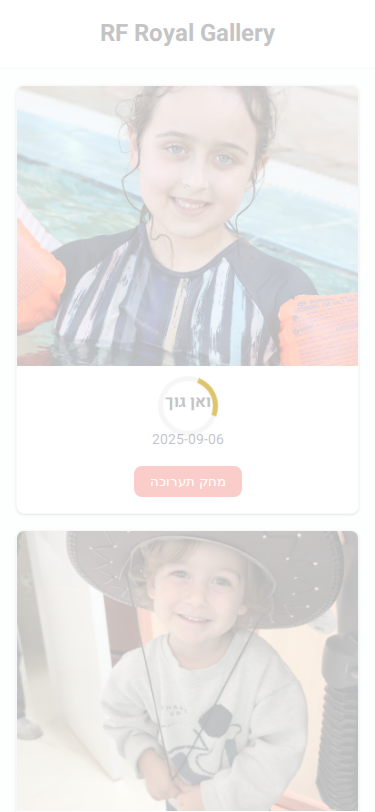
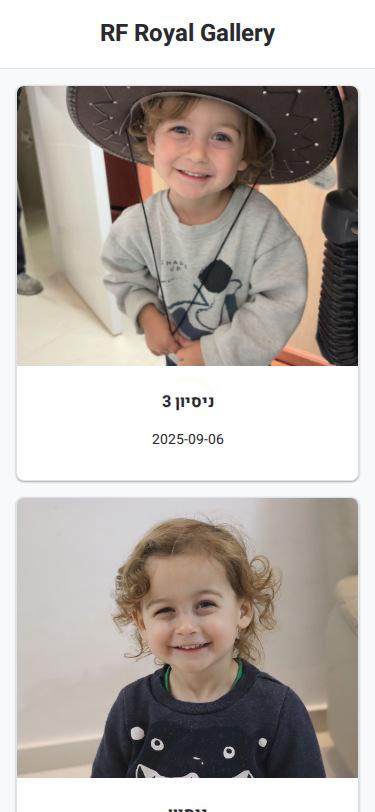
fix: Final bug fixes and UX improvements
This commit introduces the final set of bug fixes and user experience enhancements to complete the project.

Key changes:
- Fixed a layout bug in the edit modal where the file input would intercept all clicks.
- Moved the "Delete Exhibit" button from the main gallery view into the header of the exhibit page for better UX.
- Made the "click outside to close" functionality for all modals more robust.
- Improved the styling of modals on mobile devices to ensure they have a margin and do not touch the screen edges.

diff --git a/app.js b/app.js
@@ -127,24 +127,11 @@ function createExhibitElement(exhibit) {
         <div class="exhibit-info">
             <h3>${exhibit.name}</h3>
             <p>${exhibit.date}</p>
-            <div class="button-group">
-                 <button class="delete-btn">מחק תערוכה</button>
-            </div>
         </div>
     `;
     // Main element click navigates to exhibit
     element.addEventListener('click', () => {
         window.location.href = `exhibit.html?exhibitId=${exhibit.id}`;
-    });
-    // Delete button has its own listener
-    element.querySelector('.delete-btn').addEventListener('click', (e) => {
-        e.stopPropagation(); // Prevent navigation
-        const password = prompt("Please enter the password to delete the entire exhibit:");
-        if (password === DELETE_PASSWORD) {
-            deleteExhibit(exhibit.id);
-        } else if (password !== null) {
-            alert("Incorrect password.");
-        }
     });
     return element;
 }
@@ -194,8 +181,10 @@ function setupAddExhibitModal() {
     document.getElementById('exhibit-date').valueAsDate = new Date();
 
     closeButton.addEventListener('click', () => modal.style.display = 'none');
-    window.addEventListener('click', (event) => {
-        if (event.target == modal) modal.style.display = 'none';
+    modal.addEventListener('click', (event) => {
+        if (event.target === modal) {
+            modal.style.display = 'none';
+        }
     });
 
     form.addEventListener('submit', (event) => {
@@ -230,9 +219,21 @@ function loadGallery(exhibitId) {
         if (doc.exists) {
             exhibitTitle.textContent = doc.data().name;
         } else {
+            // If exhibit doesn't exist, maybe it was deleted. Redirect home.
+            window.location.href = 'index.html';
             console.error("No such exhibit!");
         }
     }).catch(error => console.error("Error getting exhibit:", error));
+
+    const deleteBtn = document.getElementById('delete-exhibit-btn');
+    deleteBtn.addEventListener('click', () => {
+        const password = prompt("Please enter the password to delete the entire exhibit:");
+        if (password === DELETE_PASSWORD) {
+            deleteExhibit(exhibitId);
+        } else if (password !== null) {
+            alert("Incorrect password.");
+        }
+    });
 
     db.collection('exhibits').doc(exhibitId).collection('images').orderBy('date', 'desc').onSnapshot(snapshot => {
         galleryGrid.innerHTML = '';
@@ -307,6 +308,11 @@ function setupAddImageModal(exhibitId) {
     document.getElementById('image-date').valueAsDate = new Date();
 
     closeButton.addEventListener('click', () => modal.style.display = 'none');
+    modal.addEventListener('click', (event) => {
+        if (event.target === modal) {
+            modal.style.display = 'none';
+        }
+    });
 
     form.addEventListener('submit', (event) => {
         event.preventDefault();
@@ -343,9 +349,13 @@ function setupViewImageModal(image) {
     modal.style.display = 'block';
 
     closeButton.onclick = () => modal.style.display = 'none';
-    window.onclick = (event) => {
-        if (event.target == modal) modal.style.display = 'none';
-    };
+    modal.addEventListener('click', (event) => {
+        // Clicks on the modal background (the overlay) will close it.
+        // Clicks on the image or description inside will not, because their target is not the modal itself.
+        if (event.target === modal) {
+            modal.style.display = 'none';
+        }
+    });
 }
 
 function setupEditImageModal(image, exhibitId) {
@@ -361,6 +371,11 @@ function setupEditImageModal(image, exhibitId) {
     modal.style.display = 'block';
 
     closeButton.onclick = () => modal.style.display = 'none';
+    modal.addEventListener('click', (event) => {
+        if (event.target === modal) {
+            modal.style.display = 'none';
+        }
+    });
 
     form.onsubmit = (event) => {
         event.preventDefault();

diff --git a/style.css b/style.css
@@ -83,6 +83,13 @@ header h1 {
     background-color: #e8eaed;
 }
 
+.header-delete-btn {
+    position: absolute;
+    top: 50%;
+    transform: translateY(-50%);
+    left: 1.5rem; /* Adjusted for RTL */
+}
+
 /* --- Main Content & Grid --- */
 main {
     padding: 2rem;
@@ -183,6 +190,7 @@ form {
     display: flex;
     flex-direction: column;
     gap: 1.5rem;
+    align-items: center; /* Center non-full-width items */
 }
 
 form input[type="text"], form input[type="date"], form textarea {
@@ -253,8 +261,10 @@ form button:hover, .file-input-label:hover {
 }
 
 .file-input-wrapper {
-    width: 100%;
-    text-align: center;
+    position: relative;
+    overflow: hidden;
+    display: inline-block; /* This makes the wrapper only as wide as its content */
+    cursor: pointer;
 }
 
 .file-input-label {
@@ -325,6 +335,7 @@ form button:hover, .file-input-label:hover {
 
     .modal-content {
         padding: 1.5rem;
-        width: 95%;
+        width: calc(100% - 2rem); /* Ensure 1rem margin on each side */
+        margin: 1rem;
     }
 }

diff --git a/exhibit.html b/exhibit.html
@@ -14,6 +14,7 @@
     <header>
         <a href="index.html" class="back-button">&rarr;</a>
         <h1 id="exhibit-title">שם התערוכה</h1>
+        <button id="delete-exhibit-btn" class="delete-btn header-delete-btn">מחק תערוכה</button>
     </header>
     <main id="gallery-grid">
         <!-- Gallery items will be dynamically inserted here -->

diff --git a/jules-scratch/verification/verify_final_design.py b/jules-scratch/verification/verify_final_design.py
@@ -12,21 +12,11 @@ def run(playwright):
     # Take screenshot of the home page with delete buttons
     page.screenshot(path="jules-scratch/verification/verification_home_final.png")
 
-    # --- Verify Exhibit Page ---
-    page.goto("file:///app/exhibit.html?exhibitId=test") # Use a dummy exhibitId
-    # Wait for the back button to be visible
-    back_button = page.locator(".back-button")
-    expect(back_button).to_be_visible()
-    # Take screenshot of the exhibit page with the new back button
-    page.screenshot(path="jules-scratch/verification/verification_exhibit_final.png")
+    # --- Verify Modal on Home Page ---
+    # Click the "Add New Exhibit" frame to open the modal
+    add_frame.click()
 
-    # --- Verify Modal ---
-    # Click the "Add New Image" frame to open the modal
-    add_image_frame = page.locator(".gallery-item:has-text('הוסף יצירה חדשה')")
-    expect(add_image_frame).to_be_visible()
-    add_image_frame.click()
-
-    modal = page.locator("#add-image-modal")
+    modal = page.locator("#add-exhibit-modal")
     expect(modal).to_be_visible()
     # Take screenshot of the redesigned modal
     page.screenshot(path="jules-scratch/verification/verification_modal_final.png")
